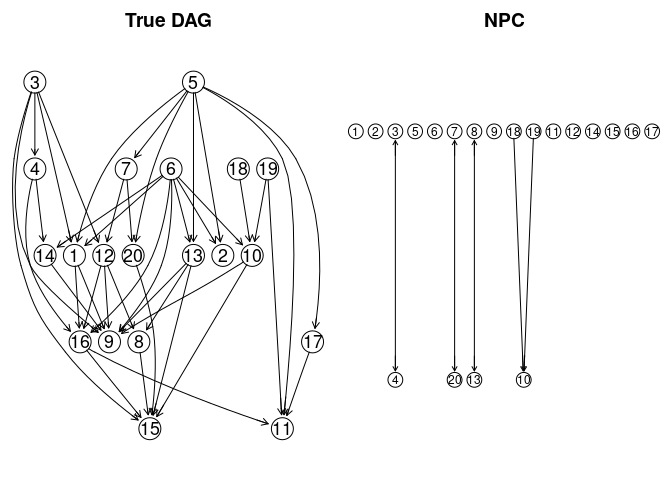
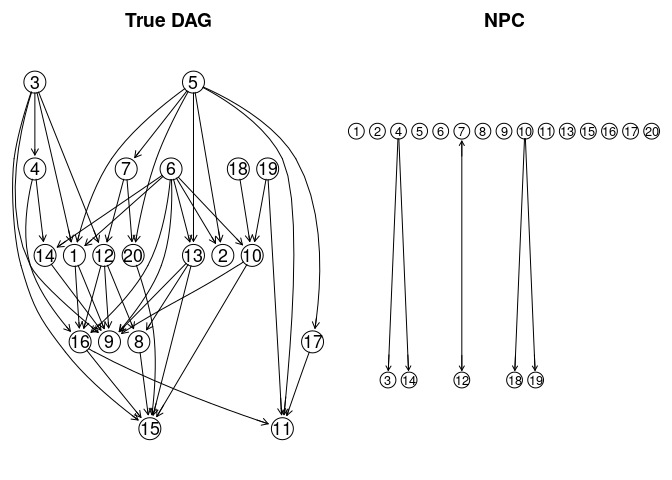
update

Changed region(s): [[0.5, 0.25, 1.0, 0.8125], [0.5625, 0.4688, 0.625, 0.8125]]

diff --git a/Demo/Demo.md b/Demo/Demo.md
@@ -108,13 +108,13 @@ convertToOrdinal <- function(scaled_data, exp_levels = 4,concent_param = 2) {
 ##' @param x,y,S: position of variable X, Y and set of variables S, respectively, in the adjacency matrix
 ##' @param suffStat: sufficient statistics for the test
 ##' @return p-value of the categorical tests
-catCItest <- function(x, y, S, suffStat) {
-  # d <- as.data.frame(suffStat$data)
-  # d[] <- lapply(d[], as.ordered)
-  return(gRim::ciTest_ordinal(suffStat$data,
-                              set = as.numeric(c(x,y,S)),
-                              statistic = suffStat$stat_type)$P)
-}
+# catCItest <- function(x, y, S, suffStat) {
+#   # d <- as.data.frame(suffStat$data)
+#   # d[] <- lapply(d[], as.ordered)
+#   return(gRim::ciTest_ordinal(suffStat$data,
+#                               set = as.numeric(c(x,y,S)),
+#                               statistic = suffStat$stat_type)$P)
+# }
 ```
 
 ``` r
@@ -168,11 +168,11 @@ configurations of parameters in order to obtain the ROC curves.
 -   NPC
 
 ``` r
-# NPC algorithm with the nominal deviance test (significance level: 0.05)
-NPCfit <- pc(suffStat = list(data = ordinal_data_df, stat_type = "dev"),
-             alpha = 0.05,
-             indepTest = catCItest,
-             labels = colnames(ordinal_data))
+# # NPC algorithm with the nominal deviance test (significance level: 0.05)
+# NPCfit <- pc(suffStat = list(data = ordinal_data_df, stat_type = "dev"),
+#              alpha = 0.05,
+#              indepTest = catCItest,
+#              labels = colnames(ordinal_data))
 # NPC algorithm with the G^2 test (significance level: 0.05)
 NPCfit <- pc(suffStat = list(dm = ordinal_data, 
                              nlev = apply(ordinal_data, 2, function (x) length(unique(x))),
@@ -180,10 +180,10 @@ NPCfit <- pc(suffStat = list(dm = ordinal_data,
              alpha = 0.05,
              indepTest = disCItest,
              labels = colnames(ordinal_data))
-# NPC algorithm with the Pearson X^2 test (significance level: 0.05)
-NPCfit <- amat(pc.stable(ordinal_data_df, alpha = 0.05, test = "x2"))
-# NPC algorithm with the mutual information (significance level: 0.05)
-NPCfit <- amat(pc.stable(ordinal_data_df, alpha = 0.05, test = "mi"))
+# # NPC algorithm with the Pearson X^2 test (significance level: 0.05)
+# NPCfit <- amat(pc.stable(ordinal_data_df, alpha = 0.05, test = "x2"))
+# # NPC algorithm with the mutual information (significance level: 0.05)
+# NPCfit <- amat(pc.stable(ordinal_data_df, alpha = 0.05, test = "mi"))
 ```
 
 ![](Demo_files/figure-markdown_github/unnamed-chunk-8-1.png)
@@ -194,18 +194,18 @@ comparePatterns(NPCfit,trueDAG) # hard version
 ```
 
     ##       SHD        TP        FP        TN        FN Precision       TPR     FPR_N 
-    ##     38.00      4.00      1.00    148.00     37.00      0.80      0.10      0.01 
+    ##     40.00      2.00      3.00    148.00     37.00      0.40      0.05      0.02 
     ##     FPR_P 
-    ##      0.02
+    ##      0.07
 
 ``` r
 comparePatterns(NPCfit,trueDAG,hardP2P = FALSE) # soft version
 ```
 
     ##       SHD        TP        FP        TN        FN Precision       TPR     FPR_N 
-    ##     37.50      4.50      0.50    148.00     37.00      0.90      0.11      0.00 
+    ##     39.00      3.00      2.00    148.00     37.00      0.60      0.07      0.01 
     ##     FPR_P 
-    ##      0.01
+    ##      0.05
 
 -   OPC (Musella, 2013)
 
@@ -248,125 +248,9 @@ GPCfit <- pc(suffStat = list(C = cor(ordinal_data), n = N),
              alpha = 0.05,
              indepTest = gaussCItest,
              labels = colnames(ordinal_data))
-# GPC algorithm (significance level: 0.05) (bnlearn implementation)
-GPCfit <- amat(pc.stable(as.data.frame(ordinal_data), alpha = 0.05, test = "zf"))
+# # GPC algorithm (significance level: 0.05) (bnlearn implementation)
+# GPCfit <- amat(pc.stable(as.data.frame(ordinal_data), alpha = 0.05, test = "zf"))
 ```
-
-    ## Warning in vstruct.apply(arcs = arcs, vs = vs, nodes = nodes, debug = debug):
-    ## vstructure 4 -> 16 <- 12 is not applicable, because one or both arcs are
-    ## oriented in the opposite direction.
-
-    ## Warning in vstruct.apply(arcs = arcs, vs = vs, nodes = nodes, debug = debug):
-    ## vstructure 1 -> 16 <- 15 is not applicable, because one or both arcs are
-    ## oriented in the opposite direction.
-
-    ## Warning in vstruct.apply(arcs = arcs, vs = vs, nodes = nodes, debug = debug):
-    ## vstructure 7 -> 12 <- 11 is not applicable, because one or both arcs are
-    ## oriented in the opposite direction.
-
-    ## Warning in vstruct.apply(arcs = arcs, vs = vs, nodes = nodes, debug = debug):
-    ## vstructure 1 -> 16 <- 4 is not applicable, because one or both arcs are oriented
-    ## in the opposite direction.
-
-    ## Warning in vstruct.apply(arcs = arcs, vs = vs, nodes = nodes, debug = debug):
-    ## vstructure 3 -> 4 <- 14 is not applicable, because one or both arcs are oriented
-    ## in the opposite direction.
-
-    ## Warning in vstruct.apply(arcs = arcs, vs = vs, nodes = nodes, debug = debug):
-    ## vstructure 8 -> 6 <- 15 is not applicable, because one or both arcs are oriented
-    ## in the opposite direction.
-
-    ## Warning in vstruct.apply(arcs = arcs, vs = vs, nodes = nodes, debug = debug):
-    ## vstructure 10 -> 15 <- 11 is not applicable, because one or both arcs are
-    ## oriented in the opposite direction.
-
-    ## Warning in vstruct.apply(arcs = arcs, vs = vs, nodes = nodes, debug = debug):
-    ## vstructure 10 -> 19 <- 11 is not applicable, because one or both arcs are
-    ## oriented in the opposite direction.
-
-    ## Warning in vstruct.apply(arcs = arcs, vs = vs, nodes = nodes, debug = debug):
-    ## vstructure 8 -> 12 <- 11 is not applicable, because one or both arcs are
-    ## oriented in the opposite direction.
-
-    ## Warning in vstruct.apply(arcs = arcs, vs = vs, nodes = nodes, debug = debug):
-    ## vstructure 12 -> 8 <- 13 is not applicable, because one or both arcs are
-    ## oriented in the opposite direction.
-
-    ## Warning in vstruct.apply(arcs = arcs, vs = vs, nodes = nodes, debug = debug):
-    ## vstructure 5 -> 1 <- 16 is not applicable, because one or both arcs are oriented
-    ## in the opposite direction.
-
-    ## Warning in vstruct.apply(arcs = arcs, vs = vs, nodes = nodes, debug = debug):
-    ## vstructure 2 -> 5 <- 13 is not applicable, because one or both arcs are oriented
-    ## in the opposite direction.
-
-    ## Warning in vstruct.apply(arcs = arcs, vs = vs, nodes = nodes, debug = debug):
-    ## vstructure 6 -> 14 <- 11 is not applicable, because one or both arcs are
-    ## oriented in the opposite direction.
-
-    ## Warning in vstruct.apply(arcs = arcs, vs = vs, nodes = nodes, debug = debug):
-    ## vstructure 4 -> 16 <- 15 is not applicable, because one or both arcs are
-    ## oriented in the opposite direction.
-
-    ## Warning in vstruct.apply(arcs = arcs, vs = vs, nodes = nodes, debug = debug):
-    ## vstructure 11 -> 15 <- 13 is not applicable, because one or both arcs are
-    ## oriented in the opposite direction.
-
-    ## Warning in vstruct.apply(arcs = arcs, vs = vs, nodes = nodes, debug = debug):
-    ## vstructure 6 -> 8 <- 12 is not applicable, because one or both arcs are oriented
-    ## in the opposite direction.
-
-    ## Warning in vstruct.apply(arcs = arcs, vs = vs, nodes = nodes, debug = debug):
-    ## vstructure 5 -> 1 <- 11 is not applicable, because one or both arcs are oriented
-    ## in the opposite direction.
-
-    ## Warning in vstruct.apply(arcs = arcs, vs = vs, nodes = nodes, debug = debug):
-    ## vstructure 4 -> 14 <- 6 is not applicable, because one or both arcs are oriented
-    ## in the opposite direction.
-
-    ## Warning in vstruct.apply(arcs = arcs, vs = vs, nodes = nodes, debug = debug):
-    ## vstructure 4 -> 9 <- 10 is not applicable, because one or both arcs are oriented
-    ## in the opposite direction.
-
-    ## Warning in vstruct.apply(arcs = arcs, vs = vs, nodes = nodes, debug = debug):
-    ## vstructure 1 -> 3 <- 12 is not applicable, because one or both arcs are oriented
-    ## in the opposite direction.
-
-    ## Warning in vstruct.apply(arcs = arcs, vs = vs, nodes = nodes, debug = debug):
-    ## vstructure 1 -> 16 <- 12 is not applicable, because one or both arcs introduce
-    ## cycles in the graph.
-
-    ## Warning in vstruct.apply(arcs = arcs, vs = vs, nodes = nodes, debug = debug):
-    ## vstructure 3 -> 1 <- 5 is not applicable, because one or both arcs are oriented
-    ## in the opposite direction.
-
-    ## Warning in vstruct.apply(arcs = arcs, vs = vs, nodes = nodes, debug = debug):
-    ## vstructure 9 -> 4 <- 11 is not applicable, because one or both arcs are oriented
-    ## in the opposite direction.
-
-    ## Warning in vstruct.apply(arcs = arcs, vs = vs, nodes = nodes, debug = debug):
-    ## vstructure 5 -> 2 <- 6 is not applicable, because one or both arcs are oriented
-    ## in the opposite direction.
-
-    ## Warning in vstruct.apply(arcs = arcs, vs = vs, nodes = nodes, debug = debug):
-    ## vstructure 10 -> 15 <- 16 is not applicable, because one or both arcs are
-    ## oriented in the opposite direction.
-
-    ## Warning in vstruct.apply(arcs = arcs, vs = vs, nodes = nodes, debug = debug):
-    ## vstructure 13 -> 15 <- 16 is not applicable, because one or both arcs are
-    ## oriented in the opposite direction.
-
-    ## Warning in vstruct.apply(arcs = arcs, vs = vs, nodes = nodes, debug = debug):
-    ## vstructure 3 -> 4 <- 9 is not applicable, because one or both arcs are oriented
-    ## in the opposite direction.
-
-    ## Warning in vstruct.apply(arcs = arcs, vs = vs, nodes = nodes, debug = debug):
-    ## vstructure 10 -> 15 <- 13 is not applicable, because one or both arcs are
-    ## oriented in the opposite direction.
-
-    ## Warning in vstruct.apply(arcs = arcs, vs = vs, nodes = nodes, debug = debug):
-    ## vstructure 12 -> 16 <- 15 is not applicable, because one or both arcs are
-    ## oriented in the opposite direction.
 
 ![](Demo_files/figure-markdown_github/unnamed-chunk-12-1.png)
 
@@ -376,18 +260,18 @@ comparePatterns(GPCfit,trueDAG) # hard version
 ```
 
     ##       SHD        TP        FP        TN        FN Precision       TPR     FPR_N 
-    ##     39.00     12.00     24.00    139.00     15.00      0.33      0.29      0.16 
+    ##     35.00     16.00     20.00    139.00     15.00      0.44      0.38      0.14 
     ##     FPR_P 
-    ##      0.57
+    ##      0.48
 
 ``` r
 comparePatterns(GPCfit,trueDAG,hardP2P = FALSE) # soft version
 ```
 
     ##       SHD        TP        FP        TN        FN Precision       TPR     FPR_N 
-    ##     37.50     13.50     22.50    139.00     15.00      0.38      0.32      0.15 
+    ##     33.50     17.50     18.50    139.00     15.00      0.49      0.42      0.12 
     ##     FPR_P 
-    ##      0.54
+    ##      0.44
 
 -   RPC (Harris and Drton, 2013; Cui et al., 2018)
 
